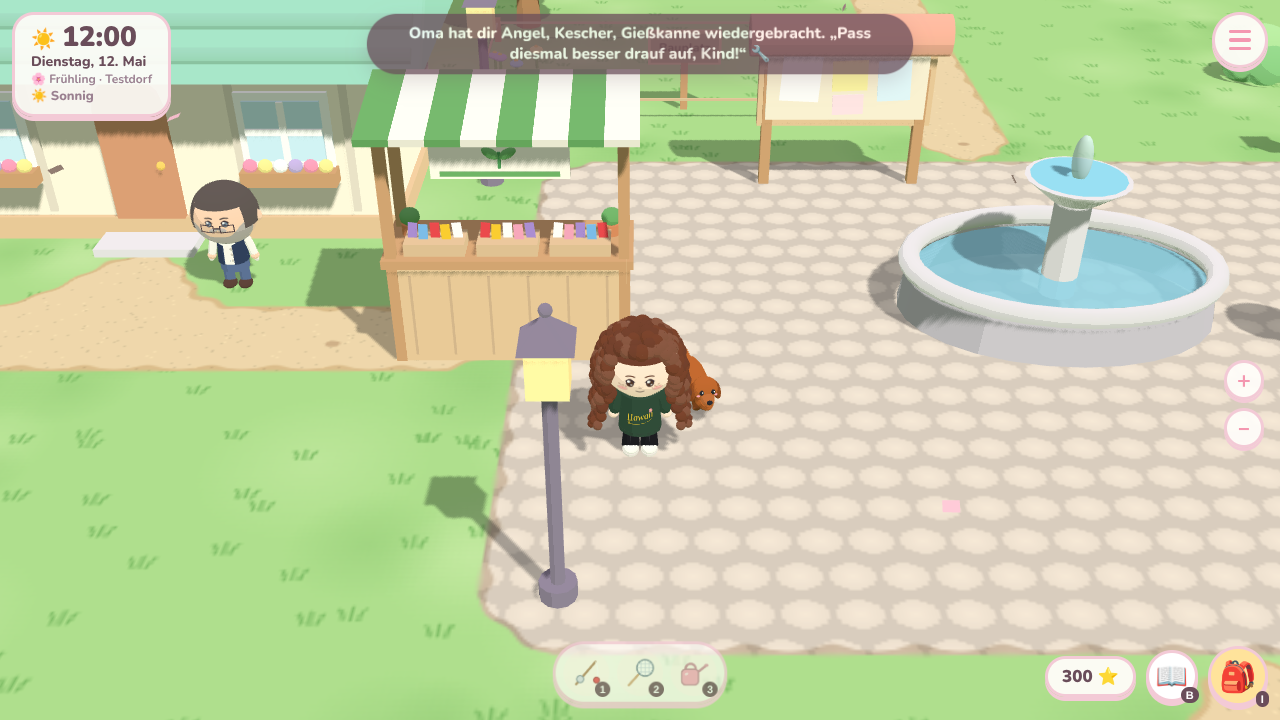
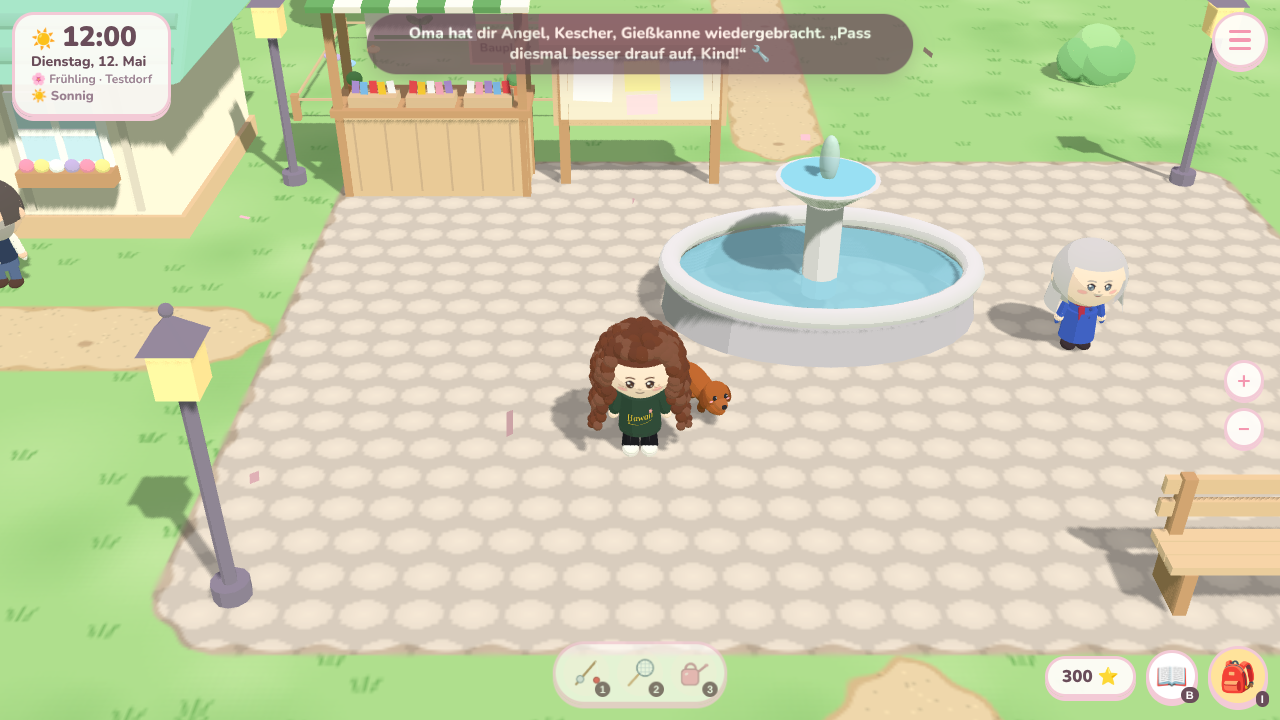
Samenstand in die Ecke des Dorfplatzes, nicht auf den Weg; Test für freie Wege
Neuer Kartentest: kein Objekt auf einem Sandweg, alle Wege und Objekte erreichbar, Dorfplatz zu mindestens 70 % frei.

Claude-Session: https://claude.ai/code/session_01ThTYhPHTkGtFy4ue8CC8z3

diff --git a/src/core/worldmap.test.ts b/src/core/worldmap.test.ts
@@ -47,6 +47,58 @@ describe('Dorfkarte', () => {
     }
   });
 
+  it('nichts steht mitten im Weg: Sandwege bleiben frei, alles ist erreichbar (auch mit allen Gebäuden & Ständen)', () => {
+    const all = buildWorldMap(VILLAGE_LAYOUT, VILLAGE_OBJECTS, VILLAGE_SPAWN);
+    const flags: Record<string, boolean> = { adventszeit: true };
+    for (const o of VILLAGE_OBJECTS) if (o.requires) flags[o.requires] = true;
+    for (const o of VILLAGE_OBJECTS) if (o.until) flags[o.until] = true;
+    applyMapFlags(all, flags);
+    // 1. kein Objekt auf einem Sandweg
+    for (const o of all.objects) {
+      if (o.kind === 'bridge' || all.inactive.has(o.id)) continue;
+      for (let y = o.y; y < o.y + o.h; y++) for (let x = o.x; x < o.x + o.w; x++) expect(VILLAGE_LAYOUT[y][x], `${o.id} steht auf dem Weg bei (${x},${y})`).not.toBe('#');
+    }
+    // 2. von Linas Haustür kommt man zu allen Weg- und Platz-Kacheln und an jedes Objekt
+    const W = all.width;
+    const seen = new Set<number>([VILLAGE_SPAWN.y * W + VILLAGE_SPAWN.x]);
+    const queue = [VILLAGE_SPAWN.y * W + VILLAGE_SPAWN.x];
+    while (queue.length) {
+      const i = queue.pop() as number;
+      const x = i % W;
+      const y = Math.floor(i / W);
+      for (const [dx, dy] of [[1, 0], [-1, 0], [0, 1], [0, -1]]) {
+        const nx = x + dx;
+        const ny = y + dy;
+        if (nx < 0 || ny < 0 || nx >= W || ny >= all.height || all.grid.isBlocked(nx, ny)) continue;
+        const ni = ny * W + nx;
+        if (!seen.has(ni)) {
+          seen.add(ni);
+          queue.push(ni);
+        }
+      }
+    }
+    for (let y = 0; y < all.height; y++) {
+      for (let x = 0; x < W; x++) {
+        const ch = VILLAGE_LAYOUT[y][x];
+        if ((ch === '#' || ch === ':' || ch === '=') && !all.grid.isBlocked(x, y)) expect(seen.has(y * W + x), `Weg-Kachel (${x},${y}) ist abgeschnitten`).toBe(true);
+      }
+    }
+    for (const o of all.objects) {
+      const info = OBJECT_KINDS[o.kind];
+      if (all.inactive.has(o.id) || !info.interactFrom || ['tree', 'pine', 'bush', 'rock'].includes(o.kind)) continue;
+      const spots = info.interactFrom.map(([dx, dy]) => [o.x + dx, o.y + dy] as const).filter(([x, y]) => x >= 0 && y >= 0 && x < W && y < all.height && !all.grid.isBlocked(x, y));
+      expect(spots.some(([x, y]) => seen.has(y * W + x)), `${o.id} ist nicht erreichbar`).toBe(true);
+    }
+    // 3. auf dem Dorfplatz bleibt genug Platz zum Laufen (mindestens 70 % der Pflaster-Kacheln frei, auch mit Punschstand)
+    let plaza = 0;
+    let free = 0;
+    for (let y = 0; y < all.height; y++) for (let x = 0; x < W; x++) if (VILLAGE_LAYOUT[y][x] === ':') {
+      plaza++;
+      if (!all.grid.isBlocked(x, y)) free++;
+    }
+    expect(free / plaza).toBeGreaterThan(0.7);
+  });
+
   it('Story-Flags tauschen Bauplatz gegen Haus (mit Kollision)', () => {
     const m = buildWorldMap(VILLAGE_LAYOUT, VILLAGE_OBJECTS, VILLAGE_SPAWN);
     expect(isActive(m, 'bauplatz-1')).toBe(true);

diff --git a/src/data/maps/village.ts b/src/data/maps/village.ts
@@ -101,7 +101,7 @@ export const VILLAGE_OBJECTS: readonly MapObjectDef[] = [
   { id: 'punschstand', kind: 'stall', x: 29, y: 19, requires: 'adventszeit' },
 
   // Christins Samenstand (Samen für Linas Beet) – steht, sobald Olaf & Christin eingezogen sind
-  { id: 'samenstand', kind: 'seedstall', x: 22, y: 19, requires: 'olafEingezogen' },
+  { id: 'samenstand', kind: 'seedstall', x: 23, y: 16, requires: 'olafEingezogen' },
 
   // Brücke über den Fluss
   { id: 'bruecke', kind: 'bridge', x: 37, y: 19 },

diff --git a/docs/game-mechanics.md b/docs/game-mechanics.md
@@ -36,7 +36,7 @@ Wetter und Feste laufen nach echter Zeit.
   in den 8 Nachbarfeldern, kann beim Pflücken ein Misch-Same abfallen (`game/flowers.ts`, `seedDrop`; reproduzierbar
   pro Tag und Platz). Neu erblühte Farben tragen sich ins Sammelbuch ein (Reiter „Blumen“, `registerBlooms`), zählen aber
   nicht als Tier-Fund für Einzugs-Meilensteine. Geschenke: Wer die Art mag, mag jede Farbe, Mischfarben kommen nie
-  schlecht an (`giftPreferences`). **Samenstand (Phase 2):** Christin betreibt auf dem Dorfplatz einen Stand (`samenstand`, Karten-Objekt
+  schlecht an (`giftPreferences`). **Samenstand (Phase 2):** Christin betreibt in der oberen linken Ecke des Dorfplatzes (nicht auf dem Weg) einen Stand (`samenstand`, Karten-Objekt
   `seedstall`, steht ab Olafs Einzug; `data/seedstand.ts`, `game/seedstand.ts`, Fenster `ui/SeedStandPanel.tsx`). Immer da:
   Standard-Samen jeder Art und die Kräuter; dazu täglich drei wechselnde **Farb-Samen** (`dailyColorSeeds`, reproduzierbar pro Tag),
   damit Lina Kreuzungs-Partner bekommt. Misch-Farben gibt es nie zu kaufen. Preis = Verkaufswert × 2,5 (mind. 12 ⭐), Menge 1× oder 5×,
